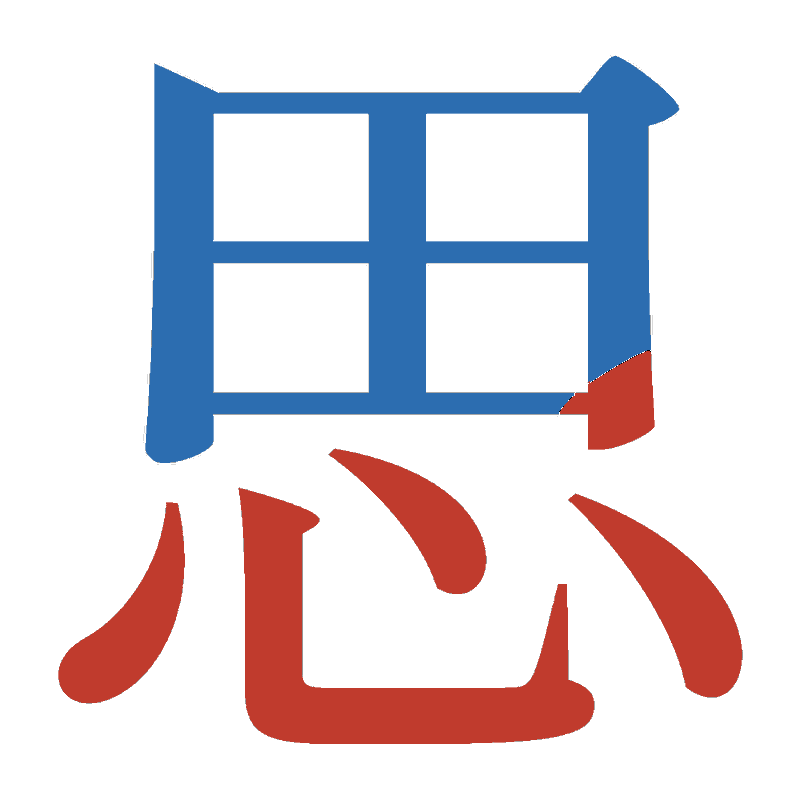
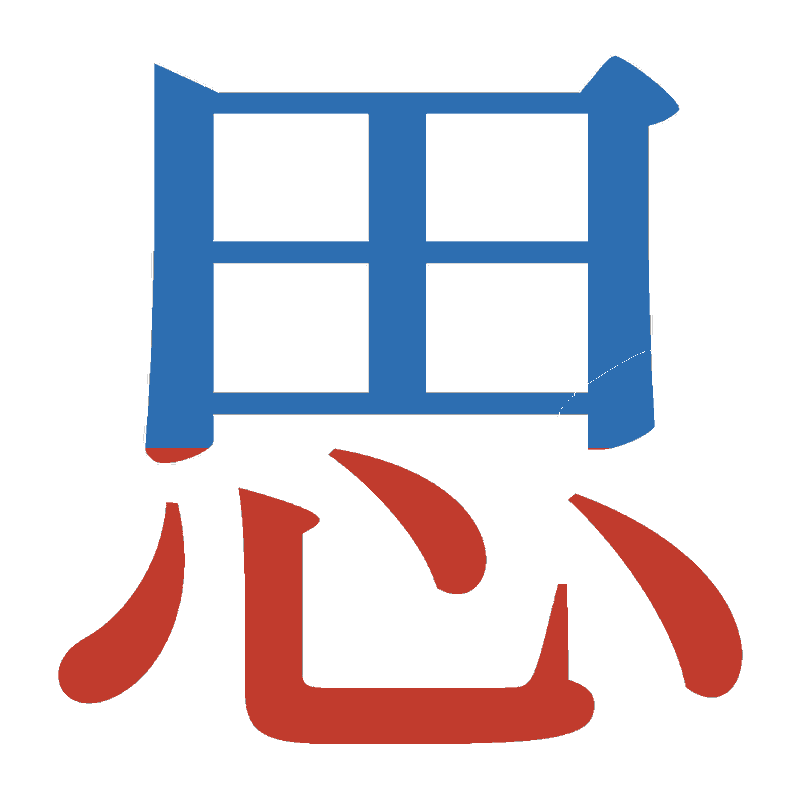
思: enforce 田/心 horizontal frontier

Changed region(s): [[0.6875, 0.4375, 0.8438, 0.5625], [0.1875, 0.5625, 0.25, 0.5938]]

diff --git a/index.html b/index.html
@@ -212,7 +212,7 @@ footer a{color:var(--p1);text-decoration:none;border-bottom:1px solid rgba(43,10
         <ul class="parts"><li><span class="dot" style="background:#c0392b"></span><span class="pname">氵</span><span class="ptag">部首</span></li><li><span class="dot" style="background:#2b6cb0"></span><span class="pname">古</span><span class="ptag">部件</span></li><li><span class="dot" style="background:#2f855a"></span><span class="pname">月</span><span class="ptag">部件</span></li></ul>
       </article>
       <article class="ex-card">
-        <div class="ex-glyph"><img src="assets/examples/24605.png?v=e7c30d17" alt="「思」上下結構" width="800" height="800" loading="lazy"></div>
+        <div class="ex-glyph"><img src="assets/examples/24605.png?v=3c0caced" alt="「思」上下結構" width="800" height="800" loading="lazy"></div>
         <h3>上下結構</h3>
         <p class="ex-note">上下相疊。</p>
         <div class="ex-sample">例字　<b>思</b>　<span class="rad">部首：心</span></div>

diff --git a/_src/clean_final.py b/_src/clean_final.py
@@ -114,6 +114,37 @@ def clean(path, parts):
     return changed
 
 
+# A handful of glyphs fuse one component's brush tip into its neighbour so tightly
+# that no pixel-level test separates them.  For those, the structural split is
+# enforced geometrically: 上下結構 uses a horizontal frontier, 左右/左中右 a
+# vertical one.  (char, axis, position, part_index held above the frontier)
+HARD = {
+    "思": ("y", 0.56, 1),      # 田 above, 心 below
+}
+
+
+def _hard_clip(path, parts, rule):
+    axis, cut, idx = rule
+    im = Image.open(path).convert("RGBA")
+    rgba = np.array(im)
+    alpha = rgba[:, :, 3] > 128
+    h, w = alpha.shape
+    sel = np.zeros((h, w), bool)
+    if axis == "y":
+        sel[int(round(cut * h)):, :] = True      # everything BELOW the frontier
+    else:
+        sel[:, int(round(cut * w)):] = True
+    keep = np.ones((h, w), bool) if False else None
+    lower = alpha & sel          # ink below the frontier
+    upper = alpha & ~sel         # ink above the frontier
+    col_upper = COLORS[parts[idx - 1]["role"]]
+    col_lower = COLORS[parts[idx]["role"]]
+    rgba[upper, 0], rgba[upper, 1], rgba[upper, 2] = col_upper
+    rgba[lower, 0], rgba[lower, 1], rgba[lower, 2] = col_lower
+    Image.fromarray(rgba, "RGBA").quantize(colors=32, method=Image.FASTOCTREE).save(
+        path, optimize=True)
+
+
 def run(only=None):
     total = 0
     for folder, meta in (("chars", "chars.json"), ("examples", "examples.json")):
@@ -121,6 +152,10 @@ def run(only=None):
             if only and rec["char"] not in only:
                 continue
             n = clean("assets/%s/%05d.png" % (folder, ord(rec["char"])), rec["parts"])
+            if rec["char"] in HARD:
+                _hard_clip("assets/%s/%05d.png" % (folder, ord(rec["char"])),
+                           rec["parts"], HARD[rec["char"]])
+                print("  %s hard-split applied" % rec["char"])
             if n:
                 print("  %s repaired %d px" % (rec["char"], n))
             total += n
